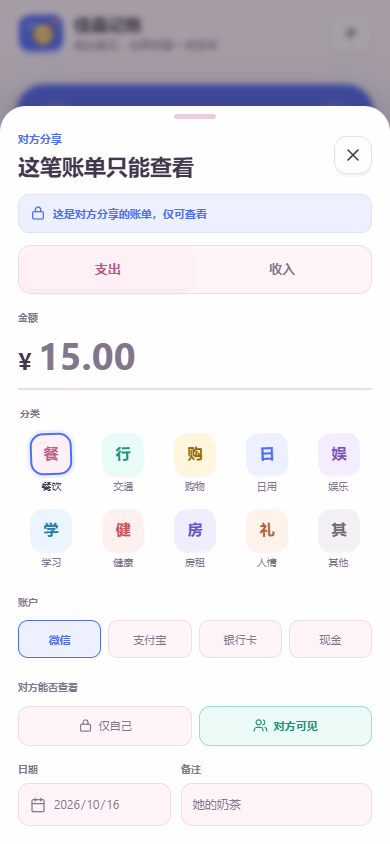
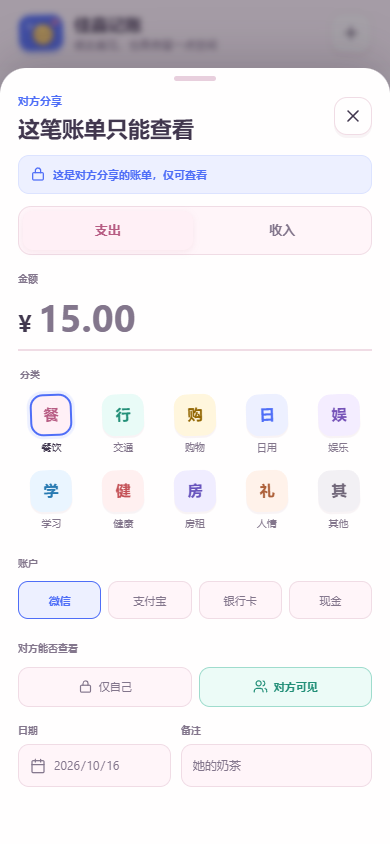
fix: make entry sheet scrollable and fix partner labels

diff --git a/app.js b/app.js
@@ -35,6 +35,7 @@
   };
   const ALL_CATEGORIES = [...EXPENSE_CATEGORIES, ...INCOME_CATEGORIES];
   const ACCOUNTS = ["微信", "支付宝", "银行卡", "现金"];
+  const PARTNER_LABEL = "多多";
 
   const state = {
     view: "home",
@@ -232,7 +233,7 @@
     state.cloudMessageType = "";
     await refreshCloudTransactions(false);
     startCloudSync();
-    if (!silent) showToast(partner ? `已连接 ${partner.display_name || "对方"}` : "共享账本已连接");
+    if (!silent) showToast(partner ? `已连接 ${PARTNER_LABEL}` : "共享账本已连接");
     renderAll();
   }
 
@@ -593,7 +594,7 @@
     }
 
     const ownName = state.profile?.display_name || "我";
-    const partnerName = state.partner?.display_name || "对方";
+    const partnerName = PARTNER_LABEL;
     const partnerBlock = state.partner
       ? `
       <div class="partner-strip">
@@ -1109,7 +1110,7 @@
     const metaParts = [category?.name || "未分类", item.account];
     if (showDate) metaParts.unshift(formatBillDate(item.date));
     const privacy = isPartnerEntry
-      ? `<span class="privacy-badge partner-entry"><svg><use href="#i-users"></use></svg>${escapeHtml(state.partner?.display_name || "对方")}</span>`
+      ? `<span class="privacy-badge partner-entry"><svg><use href="#i-users"></use></svg>${PARTNER_LABEL}</span>`
       : item.visibility === "partner"
         ? `<span class="privacy-badge shared"><svg><use href="#i-users"></use></svg>对方可见</span>`
         : `<span class="privacy-badge"><svg><use href="#i-lock"></use></svg>仅自己</span>`;

diff --git a/styles.css b/styles.css
@@ -1404,11 +1404,14 @@ main {
   bottom: 0;
   left: 0;
   width: min(100%, 600px);
-  max-height: 92vh;
+  height: 92vh;
+  height: 92dvh;
+  max-height: 840px;
   margin: 0 auto;
   padding: 8px 18px calc(18px + var(--safe-bottom));
-  overflow-y: auto;
-  overscroll-behavior: contain;
+  display: flex;
+  flex-direction: column;
+  overflow: hidden;
   border-radius: 26px 26px 0 0;
   background: var(--surface);
   box-shadow: 0 -12px 44px rgba(40, 28, 44, .18);
@@ -1434,6 +1437,23 @@ main {
   justify-content: space-between;
   gap: 12px;
   margin-bottom: 14px;
+}
+
+#transactionForm {
+  display: flex;
+  min-height: 0;
+  flex: 1;
+  flex-direction: column;
+}
+
+.sheet-scroll {
+  min-height: 0;
+  flex: 1;
+  padding-bottom: 8px;
+  overflow-y: auto;
+  overscroll-behavior: contain;
+  touch-action: pan-y;
+  -webkit-overflow-scrolling: touch;
 }
 
 .sheet-heading h2 {
@@ -1721,9 +1741,9 @@ main {
 }
 
 .sheet-actions {
-  position: sticky;
+  position: relative;
   z-index: 4;
-  bottom: 0;
+  flex: 0 0 auto;
   display: flex;
   gap: 9px;
   margin: 20px -18px calc(-18px - var(--safe-bottom));

diff --git a/index.html b/index.html
@@ -327,6 +327,7 @@
       </header>
 
       <form id="transactionForm" novalidate>
+        <div class="sheet-scroll">
         <div class="readonly-banner" id="readonlyBanner" hidden>
           <svg><use href="#i-lock"></use></svg>
           这是对方分享的账单，仅可查看
@@ -381,6 +382,7 @@
             <span>备注</span>
             <input id="noteInput" type="text" maxlength="80" placeholder="可选" autocomplete="off">
           </label>
+        </div>
         </div>
 
         <div class="sheet-actions">

diff --git a/sw.js b/sw.js
@@ -1,5 +1,5 @@
 /* 改动页面文件后同步提升 CACHE 版本，联网时会优先取新版本。 */
-const CACHE = "jiajia-ledger-v14";
+const CACHE = "jiajia-ledger-v15";
 const ASSETS = [
   "./",
   "./index.html",

diff --git a/更新日志.md b/更新日志.md
@@ -8,6 +8,8 @@
 - 云端写入改为按 ID 忽略重复插入，避免网络重试或并发提交产生多笔记录。
 - 真实 Supabase 验证同一个账单 ID 连续提交两次后，数据库最终只有一条。
 - 增加双击提交回归测试，结果为一次操作只生成一笔。
+- 记账弹层改为内容区独立滚动，手机可以滑动到日期和备注，保存按钮固定在底部。
+- 对方共享账单昵称固定显示为“多多”，不再使用资料中的手机号或自定义昵称。
 
 ## 2026-10-17 v1.2.0
 

diff --git a/README.md b/README.md
@@ -20,6 +20,7 @@
 - 首页和统计只汇总当前账号实际有权查看的账单。
 - 明细页可在“双方 / 我的 / 对方”之间切换，也可以从配对信息直接打开对方共享账本。
 - 每次打开记账弹层会生成固定账单 ID，连续点击和网络重试不会重复写入。
+- 对方共享账单昵称固定显示为“多多”。
 
 ## 共享服务
 
